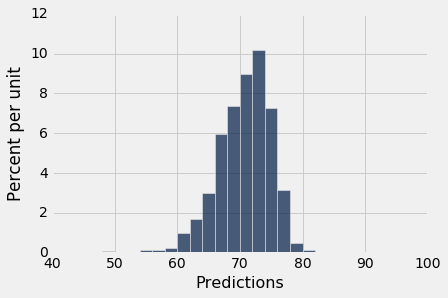
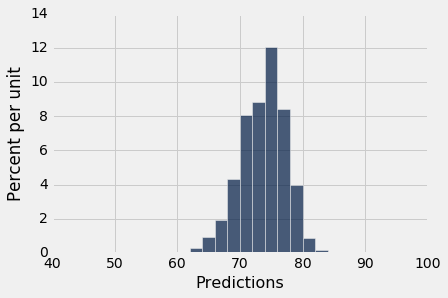
Build notebooks

Changed region(s): [[0.0625, 0.1208, 0.9375, 0.8456], [0.0625, 0.0302, 0.125, 0.0604]]

diff --git a/notebooks-html/Prediction.html b/notebooks-html/Prediction.html
@@ -250,22 +250,22 @@ $~=~$ slope$\;\times\;x ~+~$ intercept</p>
 </pre></div></div></div>
 <div class="inner_cell">
     <div class="input_area">
-<div class=" highlight hl-ipython3"><pre><span class="c"># New patient, 172 cm tall</span>
+<div class=" highlight hl-ipython3"><pre><span class="c"># New patient, 173 cm tall</span>
 <span class="c"># Predicted 15-month score:</span>
 
-<span class="n">a</span> <span class="o">*</span> <span class="mi">172</span> <span class="o">+</span> <span class="n">b</span>
+<span class="n">a</span> <span class="o">*</span> <span class="mi">173</span> <span class="o">+</span> <span class="n">b</span>
 </pre></div></div></div>
 <div class="output_text output_subarea output_execute_result">
-<pre>82.660734259851282</pre></div>
+<pre>83.65699801460444</pre></div>
 <div class="inner_cell">
     <div class="input_area">
-<div class=" highlight hl-ipython3"><pre><span class="c"># New patient, 160 cm tall</span>
+<div class=" highlight hl-ipython3"><pre><span class="c"># New patient, 163 cm tall</span>
 <span class="c"># Predicted 15-month score:</span>
 
-<span class="n">a</span> <span class="o">*</span> <span class="mi">160</span> <span class="o">+</span> <span class="n">b</span>
+<span class="n">a</span> <span class="o">*</span> <span class="mi">163</span> <span class="o">+</span> <span class="n">b</span>
 </pre></div></div></div>
 <div class="output_text output_subarea output_execute_result">
-<pre>70.705569202813209</pre></div>
+<pre>73.694360467072741</pre></div>
 <div class="inner_cell">
 <div class="text_cell_render border-box-sizing rendered_html">
 <p>The logic of regression prediction can be wrapped in a function <code>predict</code> that takes a table, the two columns of interest, and some new value for <code>x</code>. It predicts the average value for <code>y</code>.</p></div></div>
@@ -276,20 +276,20 @@ $~=~$ slope$\;\times\;x ~+~$ intercept</p>
     <span class="n">b</span> <span class="o">=</span> <span class="n">intercept</span><span class="p">(</span><span class="n">t</span><span class="p">,</span> <span class="n">x</span><span class="p">,</span> <span class="n">y</span><span class="p">)</span>
     <span class="k">return</span> <span class="n">a</span> <span class="o">*</span> <span class="n">new_x_value</span> <span class="o">+</span> <span class="n">b</span>
 
-<span class="n">predict</span><span class="p">(</span><span class="n">hodgkins</span><span class="p">,</span> <span class="s">'height'</span><span class="p">,</span> <span class="s">'month15'</span><span class="p">,</span> <span class="mi">160</span><span class="p">)</span>
+<span class="n">predict</span><span class="p">(</span><span class="n">hodgkins</span><span class="p">,</span> <span class="s">'height'</span><span class="p">,</span> <span class="s">'month15'</span><span class="p">,</span> <span class="mi">163</span><span class="p">)</span>
 </pre></div></div></div>
 <div class="output_text output_subarea output_execute_result">
-<pre>70.705569202813209</pre></div>
+<pre>73.694360467072741</pre></div>
 <div class="inner_cell">
 <div class="text_cell_render border-box-sizing rendered_html">
 <h2 id="Variability-of-the-Prediction">Variability of the Prediction<a class="anchor-link" href="#Variability-of-the-Prediction">¶</a></h2><p>As data scientists working under the regression model, we must always remain aware that a sample might have been different. Had the sample been different, the regression line would have been different too, and so would our prediction.</p>
 <p>To understand how much a prediction might vary, we can select different samples from the data we have. Below, we select only 15 of the 22 rows of the <code>hodgkins</code> table at random without replacement, then makes a prediction.</p></div></div>
 <div class="inner_cell">
     <div class="input_area">
-<div class=" highlight hl-ipython3"><pre><span class="n">predict</span><span class="p">(</span><span class="n">hodgkins</span><span class="o">.</span><span class="n">sample</span><span class="p">(</span><span class="mi">15</span><span class="p">),</span> <span class="s">'height'</span><span class="p">,</span> <span class="s">'month15'</span><span class="p">,</span> <span class="mi">160</span><span class="p">)</span>
+<div class=" highlight hl-ipython3"><pre><span class="n">predict</span><span class="p">(</span><span class="n">hodgkins</span><span class="o">.</span><span class="n">sample</span><span class="p">(</span><span class="mi">15</span><span class="p">),</span> <span class="s">'height'</span><span class="p">,</span> <span class="s">'month15'</span><span class="p">,</span> <span class="mi">163</span><span class="p">)</span>
 </pre></div></div></div>
 <div class="output_text output_subarea output_execute_result">
-<pre>67.919976279227384</pre></div>
+<pre>71.653856125189805</pre></div>
 <div class="inner_cell">
 <div class="text_cell_render border-box-sizing rendered_html">
 <p>The prediction is different, but how much might we expect it to differ? From a single sample, it is not possible to answer this question. The simulation below draws 1000 samples of 15 rows each, then draws a histogram of the predicted values using each sample.</p></div></div>
@@ -302,23 +302,23 @@ $~=~$ slope$\;\times\;x ~+~$ intercept</p>
         <span class="n">predictions</span><span class="o">.</span><span class="n">append</span><span class="p">([</span><span class="n">predicted</span><span class="p">])</span>
     <span class="n">predictions</span><span class="o">.</span><span class="n">hist</span><span class="p">(</span><span class="mi">0</span><span class="p">,</span> <span class="n">bins</span><span class="o">=</span><span class="n">np</span><span class="o">.</span><span class="n">arange</span><span class="p">(</span><span class="mi">40</span><span class="p">,</span> <span class="mi">96</span><span class="p">,</span> <span class="mi">2</span><span class="p">))</span>
 
-<span class="n">sample_predict</span><span class="p">(</span><span class="mi">160</span><span class="p">)</span>
+<span class="n">sample_predict</span><span class="p">(</span><span class="mi">163</span><span class="p">)</span>
 </pre></div></div></div>
 <div class="output_png output_subarea ">
 <img src="../notebooks-images/Prediction_30_0.png"/></div>
 <div class="inner_cell">
 <div class="text_cell_render border-box-sizing rendered_html">
-<p>Using only 15 rows instead of all 22, the prediction could have come out differently from 70.7. This histogram shows how different the prediction might be. Almost all predictions fall between 60 and 80, but a few are outside of this range.</p>
+<p>Using only 15 rows instead of all 22, the prediction could have come out differently from 73.69. This histogram shows how different the prediction might be. Almost all predictions fall between 64 and 82, but a few are outside of this range.</p>
 <p>For an <code>x</code> value that is closer to the mean of all heights, the predictions from 15 rows are more tightly clustered.</p></div></div>
 <div class="inner_cell">
     <div class="input_area">
-<div class=" highlight hl-ipython3"><pre><span class="n">sample_predict</span><span class="p">(</span><span class="mi">172</span><span class="p">)</span>
+<div class=" highlight hl-ipython3"><pre><span class="n">sample_predict</span><span class="p">(</span><span class="mi">173</span><span class="p">)</span>
 </pre></div></div></div>
 <div class="output_png output_subarea ">
 <img src="../notebooks-images/Prediction_32_0.png"/></div>
 <div class="inner_cell">
 <div class="text_cell_render border-box-sizing rendered_html">
-<p>In this histogram of the predictions for a height of 172, we see that almost all predictions fall between 74 and 90.</p>
+<p>In this histogram of the predictions for a height of 173, we see that almost all predictions fall between 76 and 90. The narrow range 80 to 86 accounts for nearly 70% of the estimates.</p>
 <p>Predictions of values outside the typical observations of height vary wildly. A data scientist is rarely justified in extrapolating a linear trend beyond the range of values observed.</p></div></div>
 <div class="inner_cell">
     <div class="input_area">

diff --git a/notebooks-html/Types.html b/notebooks-html/Types.html
@@ -48,8 +48,10 @@
 </tbody>
 </table>
 <p>The first two types represent numbers. A "floating-point" number describes its <a href="https://en.wikipedia.org/wiki/Floating_point">representation by a computer</a>, which is a topic for another text. Practically, the difference between an integer and a floating-point number is that the latter can represent fractions in addition to whole values.</p>
-<p>Boolean values, named for the logician <a href="https://en.wikipedia.org/wiki/George_Boole">George Boole</a>, represent truth and take only two possible values: <code>True</code> and <code>False</code>.</p>
-<p>Strings are the most flexible type of all. They can contain arbitrary text. A string can describe a number or a truth value, as well as any word or sentence. Much of the world's data is text, and text is represented in computers as strings.</p>
+<p>Boolean values, named for the logician <a href="https://en.wikipedia.org/wiki/George_Boole">George Boole</a>, represent truth and take only two possible values: <code>True</code> and <code>False</code>.</p></div></div>
+<div class="inner_cell">
+<div class="text_cell_render border-box-sizing rendered_html">
+<h2 id="Strings">Strings<a class="anchor-link" href="#Strings">¶</a></h2><p>Strings are the most flexible type of all. They can contain arbitrary text. A string can describe a number or a truth value, as well as any word or sentence. Much of the world's data is text, and text is represented in computers as strings.</p>
 <p>The meaning of an expression depends both upon its structure and the types of values that are being combined. So, for instance, adding two strings together produces another string. This expression is still an addition expression, but it is combining a different type of value.</p></div></div>
 <div class="inner_cell">
     <div class="input_area">
@@ -80,19 +82,41 @@
 <p>Why not? Try it out.</p></div></div>
 <div class="inner_cell">
 <div class="text_cell_render border-box-sizing rendered_html">
-<p>The <code>str</code> function returns a string representation of any value.</p></div></div>
+<p>The <code>str</code> function returns a string representation of any value. Using this function, strings can be constructed that have embedded values.</p></div></div>
 <div class="inner_cell">
     <div class="input_area">
-<div class=" highlight hl-ipython3"><pre><span class="nb">str</span><span class="p">(</span><span class="mi">2</span> <span class="o">+</span> <span class="mi">3</span><span class="p">)</span> <span class="o">+</span> <span class="s">' '</span> <span class="o">+</span> <span class="nb">str</span><span class="p">(</span><span class="k">True</span><span class="p">)</span>
+<div class=" highlight hl-ipython3"><pre><span class="s">"That's "</span> <span class="o">+</span> <span class="nb">str</span><span class="p">(</span><span class="mi">1</span> <span class="o">+</span> <span class="mi">1</span><span class="p">)</span> <span class="o">+</span> <span class="s">' '</span> <span class="o">+</span> <span class="nb">str</span><span class="p">(</span><span class="k">True</span><span class="p">)</span>
 </pre></div></div></div>
 <div class="output_text output_subarea output_execute_result">
-<pre>'5 True'</pre></div>
+<pre>"That's 2 True"</pre></div>
 <div class="inner_cell">
 <div class="text_cell_render border-box-sizing rendered_html">
-<p>There are also functions to transform strings that begin with <code>str.</code>, such as <code>str.upper</code> to create an upper-case string.</p></div></div>
+<h3 id="String-Methods">String Methods<a class="anchor-link" href="#String-Methods">¶</a></h3><p>From an existing string, related strings can be constructed using string methods, which are functions that operate on strings. These methods are called by placing a dot after the string, then calling the function.</p>
+<p>For example, the following method generates an uppercased version of a string.</p></div></div>
 <div class="inner_cell">
     <div class="input_area">
-<div class=" highlight hl-ipython3"><pre><span class="nb">str</span><span class="o">.</span><span class="n">upper</span><span class="p">(</span><span class="s">"That's "</span> <span class="o">+</span> <span class="nb">str</span><span class="p">(</span><span class="k">False</span><span class="p">))</span> <span class="o">+</span> <span class="s">'!'</span>
+<div class=" highlight hl-ipython3"><pre><span class="s">"loud"</span><span class="o">.</span><span class="n">upper</span><span class="p">()</span>
 </pre></div></div></div>
 <div class="output_text output_subarea output_execute_result">
-<pre>"THAT'S FALSE!"</pre></div></div>
+<pre>'LOUD'</pre></div>
+<div class="inner_cell">
+<div class="text_cell_render border-box-sizing rendered_html">
+<p>Perhaps the most important method is <code>replace</code>, which replaces all instances of a substring within the string. The <code>replace</code> method takes two arguments, the text to be replaced and its replacement.</p></div></div>
+<div class="inner_cell">
+    <div class="input_area">
+<div class=" highlight hl-ipython3"><pre><span class="s">'hitchhiker'</span><span class="o">.</span><span class="n">replace</span><span class="p">(</span><span class="s">'hi'</span><span class="p">,</span> <span class="s">'ma'</span><span class="p">)</span>
+</pre></div></div></div>
+<div class="output_text output_subarea output_execute_result">
+<pre>'matchmaker'</pre></div>
+<div class="inner_cell">
+<div class="text_cell_render border-box-sizing rendered_html">
+<p>String methods can also be invoked using variable names, as long as those names are bound to strings. So, for instance, the following two-step process generates the word "degrade" starting from "train" by first creating "ingrain" and then applying a second replacement.</p></div></div>
+<div class="inner_cell">
+    <div class="input_area">
+<div class=" highlight hl-ipython3"><pre><span class="n">s</span> <span class="o">=</span> <span class="s">"train"</span>
+<span class="n">t</span> <span class="o">=</span> <span class="n">s</span><span class="o">.</span><span class="n">replace</span><span class="p">(</span><span class="s">'t'</span><span class="p">,</span> <span class="s">'ing'</span><span class="p">)</span>
+<span class="n">u</span> <span class="o">=</span> <span class="n">t</span><span class="o">.</span><span class="n">replace</span><span class="p">(</span><span class="s">'in'</span><span class="p">,</span> <span class="s">'de'</span><span class="p">)</span>
+<span class="n">u</span>
+</pre></div></div></div>
+<div class="output_text output_subarea output_execute_result">
+<pre>'degrade'</pre></div></div>
